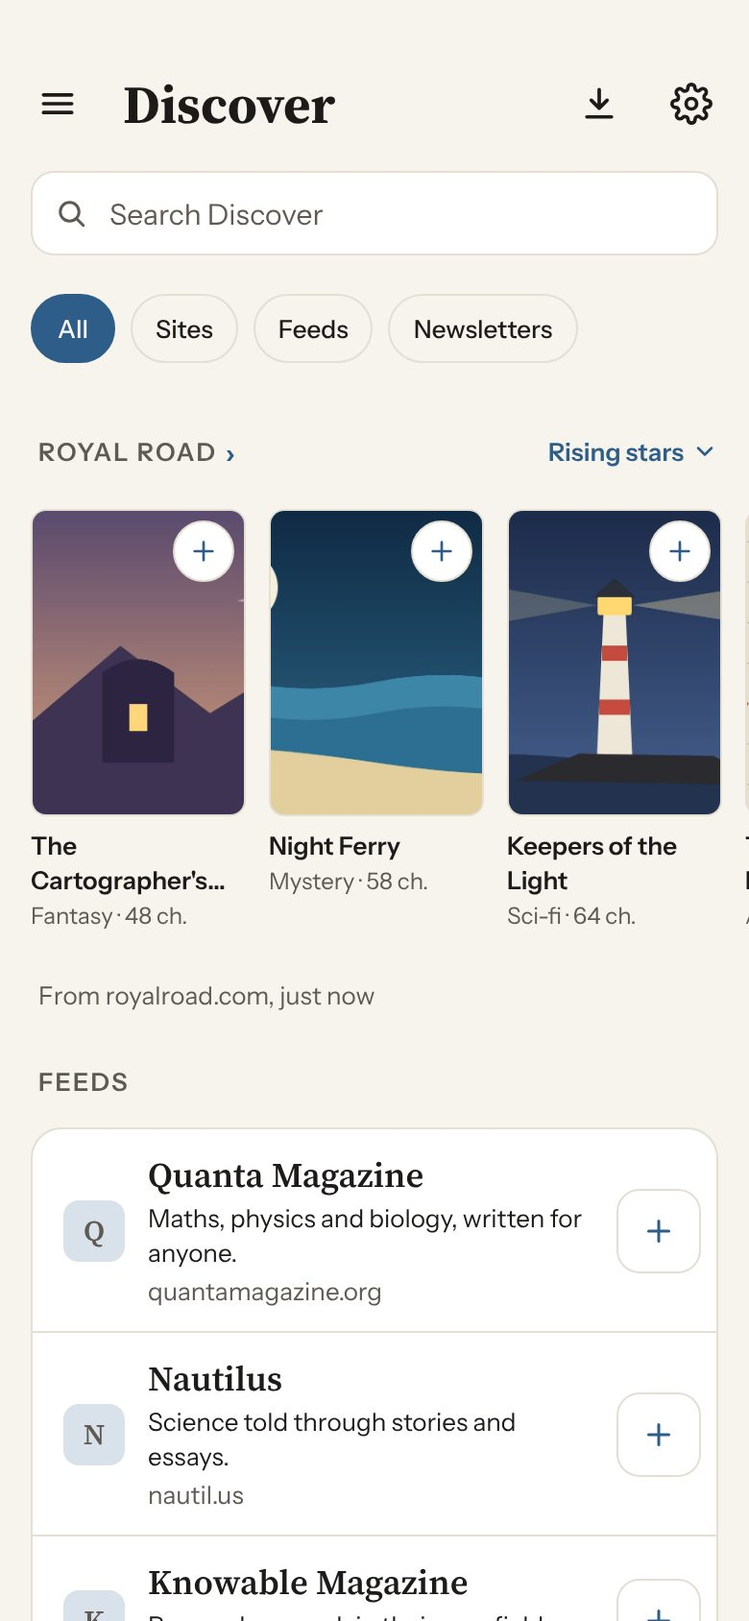
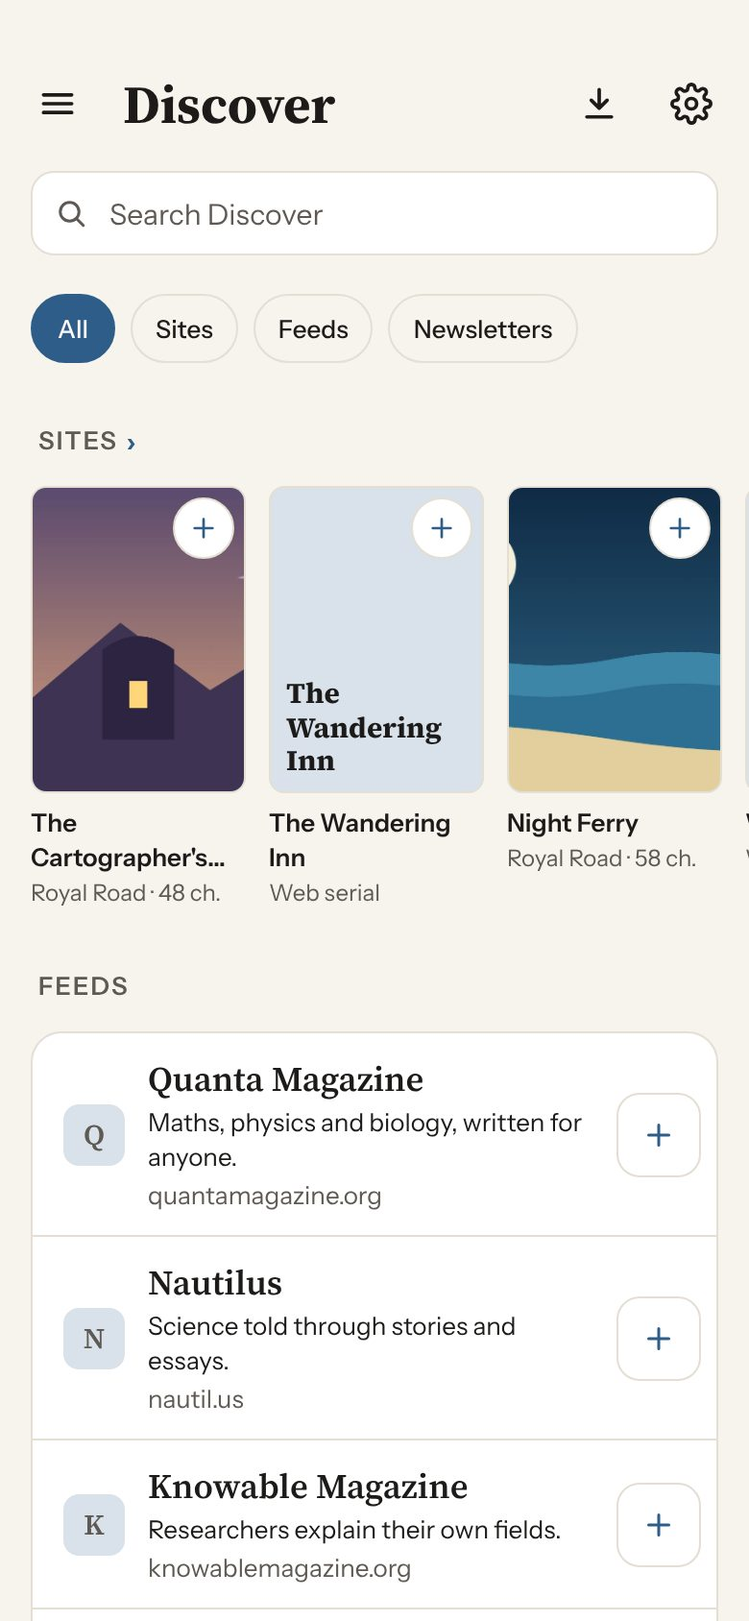
Discover: swipe moves the list only, Sites row in All, whole web serials, checked feed addresses
- The swipe between chips slid the search and chips along with the list
  (they now share one box at the top); it also didn't start over Sites'
  grid. Only the list slides now, and the grid takes swipes.
- All's row is "Sites": Royal Road, FictionPress and web serials in turn.
- A web serial's contents page counts every chapter link in the post, so
  WordPress serials split into arcs save whole, read again in the hidden
  browser when the page builds itself.
- Every feed in the list has its own feed address (checked), so the site's
  homepage, which some turn away with a 403, isn't fetched. Works in
  Progress, Reactor and Garbage Day are dropped: their feeds didn't answer.
- Following a site whose page answers 403 still tries the usual feed paths.

Claude-Session: https://claude.ai/code/session_01CFeKrjEkxtFReXnMuonm6b

diff --git a/src/discover-list.js b/src/discover-list.js
@@ -3,8 +3,9 @@
 // from GitHub (raw, main) to pick up new entries without a release, and
 // parses only that part.
 //
-// kind: "feed" (followed in Feeds; a homepage is enough, its feed is found;
-//       a Substack-style newsletter with a feed is a feed too), or
+// kind: "feed" (followed in Feeds; a Substack-style newsletter with a feed
+//       is a feed too; give "feed", the feed's own address, checked to work:
+//       many sites' homepages turn the app away with a 403), or
 //       "newsletter" (email only, so it goes to the app's Newsletters:
 //       "signup" is the page to sign up on), or
 //       "serial" (a story posted on its own site, most on WordPress, shown
@@ -14,37 +15,34 @@ window.Waypage.discoverList =
 // LIST START
 {
   "entries": [
-    { "kind": "feed", "name": "Quanta Magazine", "about": "Maths, physics and biology, written for anyone.", "url": "https://www.quantamagazine.org/" },
-    { "kind": "feed", "name": "Nautilus", "about": "Science told through stories and essays.", "url": "https://nautil.us/" },
-    { "kind": "feed", "name": "Knowable Magazine", "about": "Researchers explain their own fields.", "url": "https://knowablemagazine.org/" },
-    { "kind": "feed", "name": "Ars Technica", "about": "Science and technology news, in depth.", "url": "https://arstechnica.com/" },
-    { "kind": "feed", "name": "Rest of World", "about": "Technology outside the Western bubble.", "url": "https://restofworld.org/" },
-    { "kind": "feed", "name": "Simon Willison", "about": "A programmer's notes on AI, data and the web.", "url": "https://simonwillison.net/" },
-    { "kind": "feed", "name": "Julia Evans", "about": "Friendly explanations of how computers work.", "url": "https://jvns.ca/" },
+    { "kind": "feed", "name": "Quanta Magazine", "about": "Maths, physics and biology, written for anyone.", "url": "https://www.quantamagazine.org/", "feed": "https://www.quantamagazine.org/feed/" },
+    { "kind": "feed", "name": "Nautilus", "about": "Science told through stories and essays.", "url": "https://nautil.us/", "feed": "https://nautil.us/feed/" },
+    { "kind": "feed", "name": "Knowable Magazine", "about": "Researchers explain their own fields.", "url": "https://knowablemagazine.org/", "feed": "https://knowablemagazine.org/rss" },
+    { "kind": "feed", "name": "Ars Technica", "about": "Science and technology news, in depth.", "url": "https://arstechnica.com/", "feed": "https://feeds.arstechnica.com/arstechnica/index" },
+    { "kind": "feed", "name": "Rest of World", "about": "Technology outside the Western bubble.", "url": "https://restofworld.org/", "feed": "https://restofworld.org/feed/latest/" },
+    { "kind": "feed", "name": "Simon Willison", "about": "A programmer's notes on AI, data and the web.", "url": "https://simonwillison.net/", "feed": "https://simonwillison.net/atom/everything/" },
+    { "kind": "feed", "name": "Julia Evans", "about": "Friendly explanations of how computers work.", "url": "https://jvns.ca/", "feed": "https://jvns.ca/atom.xml" },
     { "kind": "feed", "name": "Hacker News", "about": "The front page of a programmers' link site.", "url": "https://news.ycombinator.com/", "feed": "https://news.ycombinator.com/rss" },
-    { "kind": "feed", "name": "Aeon", "about": "Long essays on ideas and culture.", "url": "https://aeon.co/" },
-    { "kind": "feed", "name": "Psyche", "about": "The mind, wellbeing and living well.", "url": "https://psyche.co/" },
-    { "kind": "feed", "name": "Works in Progress", "about": "Essays on ideas that could make the world better.", "url": "https://worksinprogress.co/" },
-    { "kind": "feed", "name": "The Marginalian", "about": "Books, art and philosophy, read slowly.", "url": "https://www.themarginalian.org/" },
-    { "kind": "feed", "name": "The Public Domain Review", "about": "Odd and lovely finds from old books.", "url": "https://publicdomainreview.org/" },
-    { "kind": "feed", "name": "Atlas Obscura", "about": "Strange places and their stories.", "url": "https://www.atlasobscura.com/" },
-    { "kind": "feed", "name": "Open Culture", "about": "Free courses, books, films and lectures.", "url": "https://www.openculture.com/" },
-    { "kind": "feed", "name": "Longreads", "about": "The best long writing, picked and published.", "url": "https://longreads.com/" },
-    { "kind": "feed", "name": "Kottke", "about": "One of the web's oldest link blogs.", "url": "https://kottke.org/" },
+    { "kind": "feed", "name": "Aeon", "about": "Long essays on ideas and culture.", "url": "https://aeon.co/", "feed": "https://aeon.co/feed.rss" },
+    { "kind": "feed", "name": "Psyche", "about": "The mind, wellbeing and living well.", "url": "https://psyche.co/", "feed": "https://psyche.co/feed.rss" },
+    { "kind": "feed", "name": "The Marginalian", "about": "Books, art and philosophy, read slowly.", "url": "https://www.themarginalian.org/", "feed": "https://www.themarginalian.org/feed/" },
+    { "kind": "feed", "name": "The Public Domain Review", "about": "Odd and lovely finds from old books.", "url": "https://publicdomainreview.org/", "feed": "https://publicdomainreview.org/rss.xml" },
+    { "kind": "feed", "name": "Atlas Obscura", "about": "Strange places and their stories.", "url": "https://www.atlasobscura.com/", "feed": "https://www.atlasobscura.com/feeds/latest" },
+    { "kind": "feed", "name": "Open Culture", "about": "Free courses, books, films and lectures.", "url": "https://www.openculture.com/", "feed": "https://www.openculture.com/feed" },
+    { "kind": "feed", "name": "Longreads", "about": "The best long writing, picked and published.", "url": "https://longreads.com/", "feed": "https://longreads.com/feed/" },
+    { "kind": "feed", "name": "Kottke", "about": "One of the web's oldest link blogs.", "url": "https://kottke.org/", "feed": "https://feeds.kottke.org/main" },
     { "kind": "feed", "name": "BBC News", "about": "World news, all day.", "url": "https://www.bbc.com/news", "feed": "https://feeds.bbci.co.uk/news/world/rss.xml" },
     { "kind": "feed", "name": "The Guardian", "about": "International edition.", "url": "https://www.theguardian.com/international", "feed": "https://www.theguardian.com/world/rss" },
     { "kind": "feed", "name": "NPR", "about": "News from America's public radio.", "url": "https://www.npr.org/", "feed": "https://feeds.npr.org/1001/rss.xml" },
-    { "kind": "feed", "name": "Reactor", "about": "Science fiction and fantasy stories and essays (was Tor.com).", "url": "https://reactormag.com/" },
-    { "kind": "feed", "name": "Clarkesworld", "about": "A science fiction and fantasy magazine.", "url": "https://clarkesworldmagazine.com/" },
-    { "kind": "feed", "name": "Lightspeed", "about": "Science fiction and fantasy, free to read.", "url": "https://www.lightspeedmagazine.com/" },
-    { "kind": "feed", "name": "Astral Codex Ten", "about": "Long, curious posts on science and society.", "url": "https://www.astralcodexten.com/" },
-    { "kind": "feed", "name": "Experimental History", "about": "Psychology and science, written with jokes.", "url": "https://www.experimental-history.com/" },
-    { "kind": "feed", "name": "Construction Physics", "about": "How buildings and infrastructure get made.", "url": "https://www.construction-physics.com/" },
-    { "kind": "feed", "name": "Noahpinion", "about": "Economics and the news, argued plainly.", "url": "https://www.noahpinion.blog/" },
-    { "kind": "feed", "name": "Slow Boring", "about": "Policy, argued in plain words.", "url": "https://www.slowboring.com/" },
-    { "kind": "feed", "name": "One Useful Thing", "about": "What AI is actually good for, tried out.", "url": "https://www.oneusefulthing.org/" },
-    { "kind": "feed", "name": "Platformer", "about": "Big tech and how it's run.", "url": "https://www.platformer.news/" },
-    { "kind": "feed", "name": "Garbage Day", "about": "What happened on the internet this week.", "url": "https://www.garbageday.email/" },
+    { "kind": "feed", "name": "Clarkesworld", "about": "A science fiction and fantasy magazine.", "url": "https://clarkesworldmagazine.com/", "feed": "https://clarkesworldmagazine.com/feed/" },
+    { "kind": "feed", "name": "Lightspeed", "about": "Science fiction and fantasy, free to read.", "url": "https://www.lightspeedmagazine.com/", "feed": "https://www.lightspeedmagazine.com/rss-2/" },
+    { "kind": "feed", "name": "Astral Codex Ten", "about": "Long, curious posts on science and society.", "url": "https://www.astralcodexten.com/", "feed": "https://www.astralcodexten.com/feed" },
+    { "kind": "feed", "name": "Experimental History", "about": "Psychology and science, written with jokes.", "url": "https://www.experimental-history.com/", "feed": "https://www.experimental-history.com/feed" },
+    { "kind": "feed", "name": "Construction Physics", "about": "How buildings and infrastructure get made.", "url": "https://www.construction-physics.com/", "feed": "https://www.construction-physics.com/feed" },
+    { "kind": "feed", "name": "Noahpinion", "about": "Economics and the news, argued plainly.", "url": "https://www.noahpinion.blog/", "feed": "https://www.noahpinion.blog/feed" },
+    { "kind": "feed", "name": "Slow Boring", "about": "Policy, argued in plain words.", "url": "https://www.slowboring.com/", "feed": "https://www.slowboring.com/feed" },
+    { "kind": "feed", "name": "One Useful Thing", "about": "What AI is actually good for, tried out.", "url": "https://www.oneusefulthing.org/", "feed": "https://www.oneusefulthing.org/feed" },
+    { "kind": "feed", "name": "Platformer", "about": "Big tech and how it's run.", "url": "https://www.platformer.news/", "feed": "https://www.platformer.news/rss/" },
     { "kind": "serial", "name": "The Wandering Inn", "about": "A long, cosy and sometimes brutal fantasy about an inn.", "url": "https://wanderinginn.com/table-of-contents/" },
     { "kind": "serial", "name": "Worm", "about": "A bullied teenager with a bug-control power, and a dark superhero world.", "url": "https://parahumans.wordpress.com/table-of-contents/" },
     { "kind": "serial", "name": "Ward", "about": "Worm's sequel, after the end of the world.", "url": "https://www.parahumans.net/table-of-contents/" },

diff --git a/src/app-discover.js b/src/app-discover.js
@@ -24,7 +24,7 @@ function dzFollowing(e) {
 }
 // A story saved already: a collection read from its page.
 function dzSavedStory(s) {
-  return allFolders().some((n) => { const src = folderSource(folderPages(n)); return src && C.discover.storyId(src) === s.id; });
+  return allFolders().some((n) => { const src = folderSource(folderPages(n)); return src && (s.serial ? sameUrl(src, s.url) : C.discover.storyId(src) === s.id); });
 }
 
 // The search field at the top searches what's shown: the picked lists as
@@ -145,22 +145,29 @@ function dzStories() {
       f.busy ? el("p", { class: "footnote dz-src" }, "Searching " + f.label + "…")
         : f.items.length ? dzCovers(f.items) : el("p", { class: "footnote" + (f.error ? " warn" : "") }, f.error || "No stories with that in their title.")];
   }
+  // A few from each site, taken in turn (Daniel: "Sites", then some from
+  // different sites); the heading opens Sites to browse them all.
   const q = dzQ().toLowerCase();
   const def = C.discover.rrLists.find((l) => l.key === dzList) || C.discover.rrLists[0];
-  const got = C.discover.rrSaved(def.key);
-  const pickList = dropdown({ label: "Royal Road list", cls: "dz-list-pick", value: def.key,
-    options: C.discover.rrLists.map((l) => ({ value: l.key, label: l.label })),
-    onpick: (v) => { dzList = v; store("waypage.discover.rrList", v); dz.error = ""; renderDiscover(); dzReadRR(); } });
-  const line = dz.busy ? "Reading Royal Road…" : dz.error ? dz.error
-    : got ? "From royalroad.com, " + whenText(got.at) : navigator.onLine ? "" : "Royal Road's lists show when you're online.";
+  const got = C.discover.rrSaved(def.key), fp = C.discover.fpSaved();
+  const rows = [got ? got.items.map((s) => ({ ...s, site: "Royal Road" })) : [], fp ? fp.items : [], dzSerials()]
+    .map((list) => list.filter((s) => !q || s.title.toLowerCase().includes(q)));
+  const items = [];
+  for (let i = 0; items.length < 18 && rows.some((r) => r[i]); i++) rows.forEach((r) => { if (r[i] && items.length < 18) items.push(r[i]); });
+  const line = dz.busy ? "Reading Royal Road and FictionPress…" : dz.error ? dz.error : navigator.onLine || items.length ? "" : "Story sites show when you're online.";
   const head = el("div", { class: "section-head wide" },
     el("h2", { class: "overline" }, el("button", { class: "section-link", type: "button", onclick: () => dzShowSites() },
-      "Royal Road", el("span", { class: "section-chev", "aria-hidden": "true" }, "›"))), pickList);
-  const items = got ? got.items.filter((s) => !q || s.title.toLowerCase().includes(q)) : [];
+      "Sites", el("span", { class: "section-chev", "aria-hidden": "true" }, "›"))));
   return [head,
-    items.length ? dzCovers(items) : null,
+    items.length ? dzCovers(items, false, true) : null,
     dzAsk(rr),
     line ? el("p", { class: "footnote dz-src" + (dz.error && !dz.busy ? " warn" : "") }, line) : null];
+}
+
+// The hand-picked web serials as stories.
+function dzSerials() {
+  return C.discover.list().entries.filter((e) => e.kind === "serial")
+    .map((e) => ({ id: "serial:" + e.url, url: e.url, title: e.name, about: e.about, site: "Web serial", serial: true, tags: [], chapters: 0, cover: "" }));
 }
 
 function dzShowSites() {
@@ -242,14 +249,14 @@ function dzGrid() {
 function dzSerialRow(e) {
   const on = allFolders().some((n) => { const src = folderSource(folderPages(n)); return src && sameUrl(src, e.url); });
   return el("div", { class: "post dz-row", "data-key": "dz:" + e.url },
-    el("button", { class: "post-open", type: "button", "aria-label": e.name, onclick: () => dzSaveStory({ url: e.url, title: e.name }) }),
+    el("button", { class: "post-open", type: "button", "aria-label": e.name, onclick: () => dzSaveStory({ url: e.url, title: e.name, serial: true }) }),
     feedMark({ url: e.url, link: e.url, title: e.name }),
     el("span", { class: "post-body" },
       el("span", { class: "post-title", dir: "auto" }, e.name),
       e.about ? el("span", { class: "dz-about", dir: "auto" }, e.about) : null,
       el("span", { class: "post-meta" }, dzHost(e.url))),
     on ? el("span", { class: "post-saved dz-on" }, dzIcon("check"), "Saved")
-      : el("button", { class: "post-act post-save", type: "button", "aria-label": "Save " + e.name, onclick: () => dzSaveStory({ url: e.url, title: e.name }) }, dzIcon("plus")));
+      : el("button", { class: "post-act post-save", type: "button", "aria-label": "Save " + e.name, onclick: () => dzSaveStory({ url: e.url, title: e.name, serial: true }) }, dzIcon("plus")));
 }
 
 // A story to the library: its chapter list, to check and save as a
@@ -258,7 +265,7 @@ async function dzSaveStory(s) {
   if (!navigator.onLine) { toast("You're offline. Save it when you're back online."); return; }
   toast("Finding its chapters…");
   try {
-    const found = await C.save.findChapters(s.url);
+    const found = s.serial ? await C.discover.serialChapters(s.url) : await C.save.findChapters(s.url);
     if (!found.links.length) { savePage(s.url); return; }
     openBatch(found.links.join("\n"), false, folderName(found.title || s.title), s.url);
   } catch (e) { toast(e instanceof C.save.SaveError ? e.message : "Couldn't read its chapters. Try again."); }
@@ -290,7 +297,7 @@ async function dzMore() {
   if (state.place === "discover") renderDiscover();
 }
 
-function dzCovers(items, grid) {
+function dzCovers(items, grid, sites) {
   return el("div", { class: grid ? "dz-covers dz-grid" : "dz-covers", role: "list" }, ...items.map((s) => {
     const saved = dzSavedStory(s);
     const art = el("span", { class: "dz-cover", "aria-hidden": "true" }, el("span", { class: "dz-cover-t", dir: "auto" }, s.title));
@@ -300,7 +307,7 @@ function dzCovers(items, grid) {
       img.addEventListener("error", () => img.remove());
       art.prepend(img);
     }
-    const meta = [s.tags[0], s.chapters ? s.chapters + " ch." : ""].filter(Boolean).join(" · ");
+    const meta = [sites ? s.site || "Royal Road" : s.tags[0], s.chapters ? s.chapters + " ch." : ""].filter(Boolean).join(" · ");
     return el("button", { class: "dz-book", type: "button", role: "listitem", "data-key": "rr:" + s.id,
       "aria-label": s.title + (saved ? ", in your library" : ""), onclick: () => openMenu("story", s) },
       el("span", { class: "dz-art" }, art, el("span", { class: "dz-mark" + (saved ? " on" : "") }, dzIcon(saved ? "check" : "plus", 16))),
@@ -312,14 +319,18 @@ function dzCovers(items, grid) {
 async function dzReadRR(force) {
   if (!dzCanRead() || dz.busy || dz.found) return;
   const def = C.discover.rrLists.find((l) => l.key === dzList) || C.discover.rrLists[0];
-  const had = C.discover.rrSaved(def.key);
-  if (!force && had && Date.now() - had.at < 36e5) return;
+  const had = C.discover.rrSaved(def.key), hadFp = C.discover.fpSaved();
+  const fresh = (x) => x && Date.now() - x.at < 36e5;
+  if (!force && fresh(had) && fresh(hadFp)) return;
   if (!navigator.onLine) return;
   dz.busy = true;
   dz.error = "";
   if (state.place === "discover") renderDiscover();
-  try { await C.discover.rrRead(def.key, force); }
-  catch (e) { dz.error = (had ? "Couldn't reach Royal Road. This is the list from " + whenText(had.at) + "." : "Couldn't read Royal Road's list just now. Pull down to try again.") + " (" + dzWhy(e) + ")"; }
+  // One after the other: both may need the hidden browser.
+  let rrErr = null;
+  try { await C.discover.rrRead(def.key, force); } catch (e) { rrErr = e; }
+  try { await C.discover.fpRead(force); } catch (e) { /* the row shows the others */ }
+  if (rrErr) dz.error = (had ? "Couldn't reach Royal Road. This is the list from " + whenText(had.at) + "." : "Couldn't read Royal Road's list just now. Pull down to try again.") + " (" + dzWhy(rrErr) + ")";
   dz.busy = false;
   if (state.place === "discover") renderDiscover();
 }
@@ -370,7 +381,7 @@ function storySheet() {
   }
   const facts = [s.chapters ? s.chapters + (s.chapters === 1 ? " chapter" : " chapters") : "", s.followers ? s.followers.toLocaleString() + " following" : ""].filter(Boolean).join(" · ");
   const rated = [s.rating ? "★ " + s.rating.toFixed(1) : "", s.tags.join(", ")].filter(Boolean).join(" · ");
-  const site = s.site || "Royal Road";
+  const site = s.serial ? dzHost(s.url) : s.site || "Royal Road";
   const save = el("button", { class: "btn-primary", type: "button", onclick: async () => { await back(); dzSaveStory(s); } },
     saved ? "Save it again" : "Save as a collection");
   return el("div", { class: "page-controls dz-story" },

diff --git a/test/discover.test.js b/test/discover.test.js
@@ -124,13 +124,13 @@ async function phone(browser) {
       await p.locator("#discover .dz-book").first().waitFor();
       assert.strictEqual(await p.locator("#placeTitle").textContent(), "Discover");
       assert.ok(await p.locator("#discover .dz-row").count() > 20);
-      assert.deepStrictEqual((await p.locator("#discover .section-head .overline").allTextContents()).map((t) => t.replace("›", "")), ["Royal Road", "Feeds", "Newsletters"]);
+      assert.deepStrictEqual((await p.locator("#discover .section-head .overline").allTextContents()).map((t) => t.replace("›", "")), ["Sites", "Feeds", "Newsletters"]);
       assert.ok(!(await p.locator("#saveForm").isVisible()), "no field at the bottom");
       assert.strictEqual(await p.locator("#discover .dz-search input").getAttribute("placeholder"), "Search Discover");
       // A site: the Add a feed sheet, its address filled in.
       await p.locator('#discover .dz-row:has-text("Quanta Magazine") .post-save').click();
       await p.locator('#menuSheet[data-kind="addFeed"]:not([hidden])').waitFor();
-      assert.strictEqual(await p.locator("#menuSheet .feed-input").inputValue(), "https://www.quantamagazine.org/");
+      assert.strictEqual(await p.locator("#menuSheet .feed-input").inputValue(), "https://www.quantamagazine.org/feed/");
       await p.evaluate(() => history.back());
       await p.waitForFunction(() => !state.menu);
       // An email-only newsletter: the sign-up sheet.
@@ -201,8 +201,8 @@ async function phone(browser) {
         goPlace("discover");
       }, fixture("rr-list.html"));
       await p.locator("#discover .dz-book").first().waitFor();
-      assert.deepStrictEqual(await p.evaluate(() => window.drawn), ["https://www.royalroad.com/fictions/rising-stars"]);
-      assert.strictEqual(await p.locator("#discover .dz-book").count(), 2);
+      assert.strictEqual(await p.evaluate(() => window.drawn[0]), "https://www.royalroad.com/fictions/rising-stars");
+      assert.strictEqual(await p.locator('#discover .dz-book:has-text("Royal Road")').count(), 2);
       await ctx.close();
     });
 
@@ -210,7 +210,7 @@ async function phone(browser) {
       const { ctx, p } = await phone(browser);
       await p.evaluate(() => goPlace("discover"));
       await p.locator("#discover .dz-book").first().waitFor();
-      await p.locator('#discover .section-link:has-text("Royal Road")').click();
+      await p.locator('#discover .section-link:has-text("Sites")').click();
       await p.locator("#discover .dz-grid .dz-book").first().waitFor();
       assert.strictEqual(await p.locator("#discover .chip.on").textContent(), "Sites");
       assert.strictEqual(await p.locator("#discover .dz-row").count(), 0, "only stories under Sites");
@@ -245,6 +245,20 @@ async function phone(browser) {
       await ctx.close();
     });
 
+    await test("All's Sites row mixes the story sites; a web serial's whole contents page is read", async () => {
+      const { ctx, p } = await phone(browser);
+      await p.evaluate((fp) => { const P = Waypage.platform, rr = P.fetchText; P.fetchText = async (url) => (/fictionpress/.test(url) ? { status: 200, url, text: fp } : rr(url)); goPlace("discover"); }, fixture("fp-list.html"));
+      await p.locator('#discover .dz-book:has-text("FictionPress")').first().waitFor();
+      const metas = await p.locator("#discover .dz-covers .dz-bm").allTextContents();
+      assert.deepStrictEqual(metas.slice(0, 3).map((m) => m.split(" · ")[0]), ["Royal Road", "FictionPress", "Web serial"]);
+      // Two arcs in two lists: both, in order, and not the blog's own links.
+      const got = await p.evaluate(() => Waypage.discover.serialLinks('<html><head><meta property="og:site_name" content="Worm"></head><body><nav><a href="/about/">About</a></nav><div class="entry-content"><p>Arc 1</p><ul><li><a href="/2011/06/11/gestation-1-1/">1.1</a></li><li><a href="/2011/06/14/gestation-1-2/">1.2</a></li></ul><p>Arc 2</p><ul><li><a href="/2011/06/25/insinuation-2-1/">2.1</a></li><li><a href="https://parahumans.wordpress.com/2011/06/28/insinuation-2-2/#more">2.2</a></li></ul><a href="/category/stories-arcs-1-10/">Arcs</a><a href="https://twitter.com/x">Share</a></div></body></html>', "https://parahumans.wordpress.com/table-of-contents/"));
+      await ctx.close();
+      assert.strictEqual(got.title, "Worm");
+      assert.deepStrictEqual(got.links, ["https://parahumans.wordpress.com/2011/06/11/gestation-1-1/", "https://parahumans.wordpress.com/2011/06/14/gestation-1-2/",
+        "https://parahumans.wordpress.com/2011/06/25/insinuation-2-1/", "https://parahumans.wordpress.com/2011/06/28/insinuation-2-2/"]);
+    });
+
     await test("FictionPress's list rows read as stories", async () => {
       const { ctx, p } = await phone(browser);
       const got = await p.evaluate((html) => Waypage.discover.parseFP(html, "https://www.fictionpress.com/fiction/Fantasy/"), fixture("fp-list.html"));
@@ -261,19 +275,30 @@ async function phone(browser) {
       const { ctx, p } = await phone(browser);
       await p.evaluate(() => goPlace("discover"));
       await p.locator("#discover .dz-row").first().waitFor();
-      const swipe = async (x0, x1) => p.evaluate(([a, b]) => {
+      const swipe = async (x0, x1, on, hold) => p.evaluate(([a, b, on, hold]) => {
         const root = document.getElementById("discover");
-        const row = root.querySelector(".dz-tools, .section-head");
+        const row = root.querySelector(on || ".dz-tools, .section-head");
         const r = row.getBoundingClientRect(), y = r.top + 20;
         const t = (x) => new Touch({ identifier: 1, target: row, clientX: x, clientY: y });
         row.dispatchEvent(new TouchEvent("touchstart", { touches: [t(a)], changedTouches: [t(a)], bubbles: true }));
         for (let i = 1; i <= 6; i++) row.dispatchEvent(new TouchEvent("touchmove", { touches: [t(a + (b - a) * i / 6)], changedTouches: [t(a + (b - a) * i / 6)], bubbles: true }));
+        if (hold) return { head: root.querySelector(".dz-head").style.transform, body: root.querySelector(".dz-body").style.transform };
         row.dispatchEvent(new TouchEvent("touchend", { touches: [], changedTouches: [t(b)], bubbles: true }));
-      }, [x0, x1]);
+      }, [x0, x1, on, hold]);
+      // Mid-swipe the list slides; the search field and chips stay.
+      const mid = await swipe(320, 200, null, true);
+      assert.strictEqual(mid.head, "");
+      assert.match(mid.body, /translateX/);
+      await p.evaluate(() => document.querySelector("#discover .section-head").dispatchEvent(new TouchEvent("touchend", { touches: [], changedTouches: [], bubbles: true })));
+      await p.waitForTimeout(400);
       await swipe(320, 40);
       await p.waitForFunction(() => document.querySelector("#discover .chip.on").textContent === "Sites");
+      // Over Sites' grid of covers too.
+      await p.locator("#discover .dz-grid .dz-book").first().waitFor();
+      await swipe(320, 40, "#discover .dz-grid .dz-book");
+      await p.waitForFunction(() => document.querySelector("#discover .chip.on").textContent === "Feeds");
       await swipe(40, 320);
-      await p.waitForFunction(() => document.querySelector("#discover .chip.on").textContent === "All");
+      await p.waitForFunction(() => document.querySelector("#discover .chip.on").textContent === "Sites");
       await ctx.close();
     });
 

diff --git a/src/discover.js b/src/discover.js
@@ -244,11 +244,57 @@
   const fpBrowse = (sort, genre, page) => fpStories(fpBrowseUrl(sort, genre, page));
   const fpSearch = (words) => fpStories(FP + "/search/?keywords=" + encodeURIComponent(String(words || "").trim()) + "&ready=1&type=story");
 
+  // FictionPress's first page for All's Sites row, kept like Royal Road's.
+  const FP_KEY = "waypage.discover.fp";
+  const fpSaved = () => read(FP_KEY, null);
+  async function fpRead(force) {
+    const had = fpSaved();
+    if (!force && had && Date.now() - had.at < FRESH) return had;
+    const got = { at: Date.now(), items: await fpBrowse("4", "Fantasy", 1) };
+    keep(FP_KEY, got);
+    return got;
+  }
+
+  // A web serial's chapters, from its table of contents. WordPress serials
+  // list each arc or volume in a list of its own, so the general contents
+  // reader (one list, the best) got one arc. Here every link in the post's
+  // body counts, in page order. A contents page built by script is read
+  // again in the hidden browser.
+  const NOT_CHAPTER = /\/(category|tag|author|feed|wp-content|wp-admin|wp-login|comments)\b|[?&](share|replytocom)=|\.(jpe?g|png|gif|webp|pdf)$/i;
+  function serialLinks(html, at) {
+    const doc = new DOMParser().parseFromString(String(html || ""), "text/html");
+    const box = doc.querySelector(".entry-content, .post-content, .page-content, article .content, article, main") || doc.body;
+    const host = (u) => u.hostname.replace(/^www\./, "");
+    const page = new URL(at);
+    const seen = new Set(), links = [];
+    if (box) for (const a of box.querySelectorAll("a[href]")) {
+      if (!text(a)) continue;
+      let u;
+      try { u = new URL(a.getAttribute("href"), at); } catch (e) { continue; }
+      u.hash = "";
+      if (!/^https?:$/.test(u.protocol) || host(u) !== host(page) || u.pathname.replace(/\/$/, "") === page.pathname.replace(/\/$/, "") || u.pathname === "/" || NOT_CHAPTER.test(u.href)) continue;
+      if (!seen.has(u.href)) { seen.add(u.href); links.push(u.href); }
+    }
+    const og = doc.querySelector('meta[property="og:site_name"]');
+    return { title: (og && og.content.trim()) || text(doc.querySelector("title")).replace(/\s*[|–-].*$/, ""), links };
+  }
+  async function serialChapters(url) {
+    let res = null;
+    try { res = await C.platform.fetchText(url); } catch (e) { if (!C.platform.canRender) throw e; }
+    let got = res && res.status === 200 && !challenged(res) ? serialLinks(res.text, res.url || url) : { title: "", links: [] };
+    if (got.links.length < 5 && C.platform.canRender) {
+      const drawn = await C.platform.render(url, {});
+      if (drawn) { const again = serialLinks(drawn.text, drawn.url || url); if (again.links.length > got.links.length) got = again; }
+    }
+    if (!got.links.length && res && res.status !== 200) throw new Error("HTTP " + res.status);
+    return got;
+  }
+
   // The story sites Sites browses, each with its lists and genres.
   const SOURCES = [
     { key: "rr", label: "Royal Road", lists: RR_LISTS, genres: RR_GENRES, anyGenre: true, browse: (k, g, p) => rrBrowse(k, g, p), search: (w) => rrSearch(w) },
     { key: "fp", label: "FictionPress", lists: FP_SORTS, genres: FP_GENRES, anyGenre: false, browse: fpBrowse, search: fpSearch },
   ];
 
-  C.discover = { list, refresh, fromSource, clean, isStory, storyId, parseList, rrLists: RR_LISTS, rrGenres: RR_GENRES, rrSaved, rrRead, rrSearch, rrBrowse, rrBrowseUrl, parseFP, fpBrowseUrl, sources: SOURCES };
+  C.discover = { list, refresh, fromSource, clean, isStory, storyId, parseList, rrLists: RR_LISTS, rrGenres: RR_GENRES, rrSaved, rrRead, rrSearch, rrBrowse, rrBrowseUrl, parseFP, fpBrowseUrl, fpSaved, fpRead, serialLinks, serialChapters, sources: SOURCES };
 })();

diff --git a/src/app-places.js b/src/app-places.js
@@ -1312,7 +1312,8 @@ function swipeFeeds(root) {
   let go = null;
   const chips = () => [...root.querySelectorAll(".feed-chips .chip")];
   // The chips stay put; what's under them slides (Daniel, 1.45.6).
-  const parts = () => [...root.children].filter((x) => !x.classList.contains("feed-chips"));
+  // Discover's search and chips sit in one box at the top; it stays too.
+  const parts = () => [...root.children].filter((x) => !x.classList.contains("feed-chips") && !x.querySelector(".feed-chips"));
   const move = (t) => parts().forEach((x) => { x.style.transform = t; });
   const play = (frames, timing) => parts().map((x) => x.animate(frames, timing));
   const neighbour = (d) => {
@@ -1322,8 +1323,8 @@ function swipeFeeds(root) {
   root.addEventListener("touchstart", (e) => {
     const t = e.touches[0];
     go = e.touches.length === 1 && t.clientX > EDGE && !state.feedPick && !state.side && !state.menu && chips().length > 1
-      // Discover's covers scroll sideways on their own.
-      && !e.target.closest(".filters, input, textarea, .dz-covers") ? { x: t.clientX, y: t.clientY, on: false, dx: 0, t: e.timeStamp } : null;
+      // Discover's row of covers scrolls sideways on its own; its grid doesn't.
+      && !e.target.closest(".filters, input, textarea, .dz-covers:not(.dz-grid)") ? { x: t.clientX, y: t.clientY, on: false, dx: 0, t: e.timeStamp } : null;
   }, { passive: true });
   root.addEventListener("touchmove", (e) => {
     if (!go) return;

diff --git a/src/feeds.js b/src/feeds.js
@@ -180,7 +180,10 @@
   async function findFeed(input) {
     const start = http(/^https?:\/\//i.test(input) ? input : "https://" + String(input || "").trim());
     if (!start) throw new FeedError("That doesn't look like an address. Paste the site's or its feed's.");
-    const res = await get(start);
+    // A site that turns the app's visit away (Cloudflare's browser check,
+    // 403) often still serves its feed: the usual paths are tried anyway.
+    let res;
+    try { res = await get(start); } catch (e) { if (!/\((403|503)\)/.test(e.message)) throw e; res = { url: start, text: "", refused: e }; }
     const at = res.url || start;
     const direct = parseFeed(res.text, at);
     if (direct) return { url: at, feed: direct };
@@ -194,6 +197,7 @@
         if (feed) return { url: r.url || u, feed };
       } catch (e) { /* the next one */ }
     }
+    if (res.refused) throw res.refused;
     throw new FeedError("Couldn't find a feed on " + siteOf(at) + ". Paste the feed's own address if the site shows one.");
   }
 

diff --git a/changes/feature-discover.md b/changes/feature-discover.md
@@ -1,2 +1,5 @@
 ### Added
-- Discover, in the sidebar: browse feeds, newsletters and Royal Road stories to follow, by kind (Sites for Royal Road, Feeds, Newsletters), and add one with a tap; swipe to move between the chips. A feed opens Add a feed, a story saves as a collection that gets its new chapters, and a newsletter (one that comes by email) copies your Newsletters address and opens its sign-up page. On the phone, Sites browses Royal Road and FictionPress as a grid, by list and genre, page after page, plus hand-picked web serials (Worm, The Wandering Inn and more); tap Royal Road's heading to open it. The search field at the top searches what's shown: the lists as you type, and the story site itself when you press search.
+- Discover, in the sidebar: browse feeds, newsletters and Royal Road stories to follow, by kind (Sites for Royal Road, Feeds, Newsletters), and add one with a tap; swipe to move between the chips. A feed opens Add a feed, a story saves as a collection that gets its new chapters, and a newsletter (one that comes by email) copies your Newsletters address and opens its sign-up page. On the phone, Sites browses Royal Road and FictionPress as a grid, by list and genre, page after page, plus hand-picked web serials (Worm, The Wandering Inn and more), saved whole; All shows a few from each, and "Sites" opens them. The search field at the top searches what's shown: the lists as you type, and the story site itself when you press search.
+
+### Fixed
+- Following a site whose page turns the app away (an error 403) still finds its feed, at the usual feed addresses.
